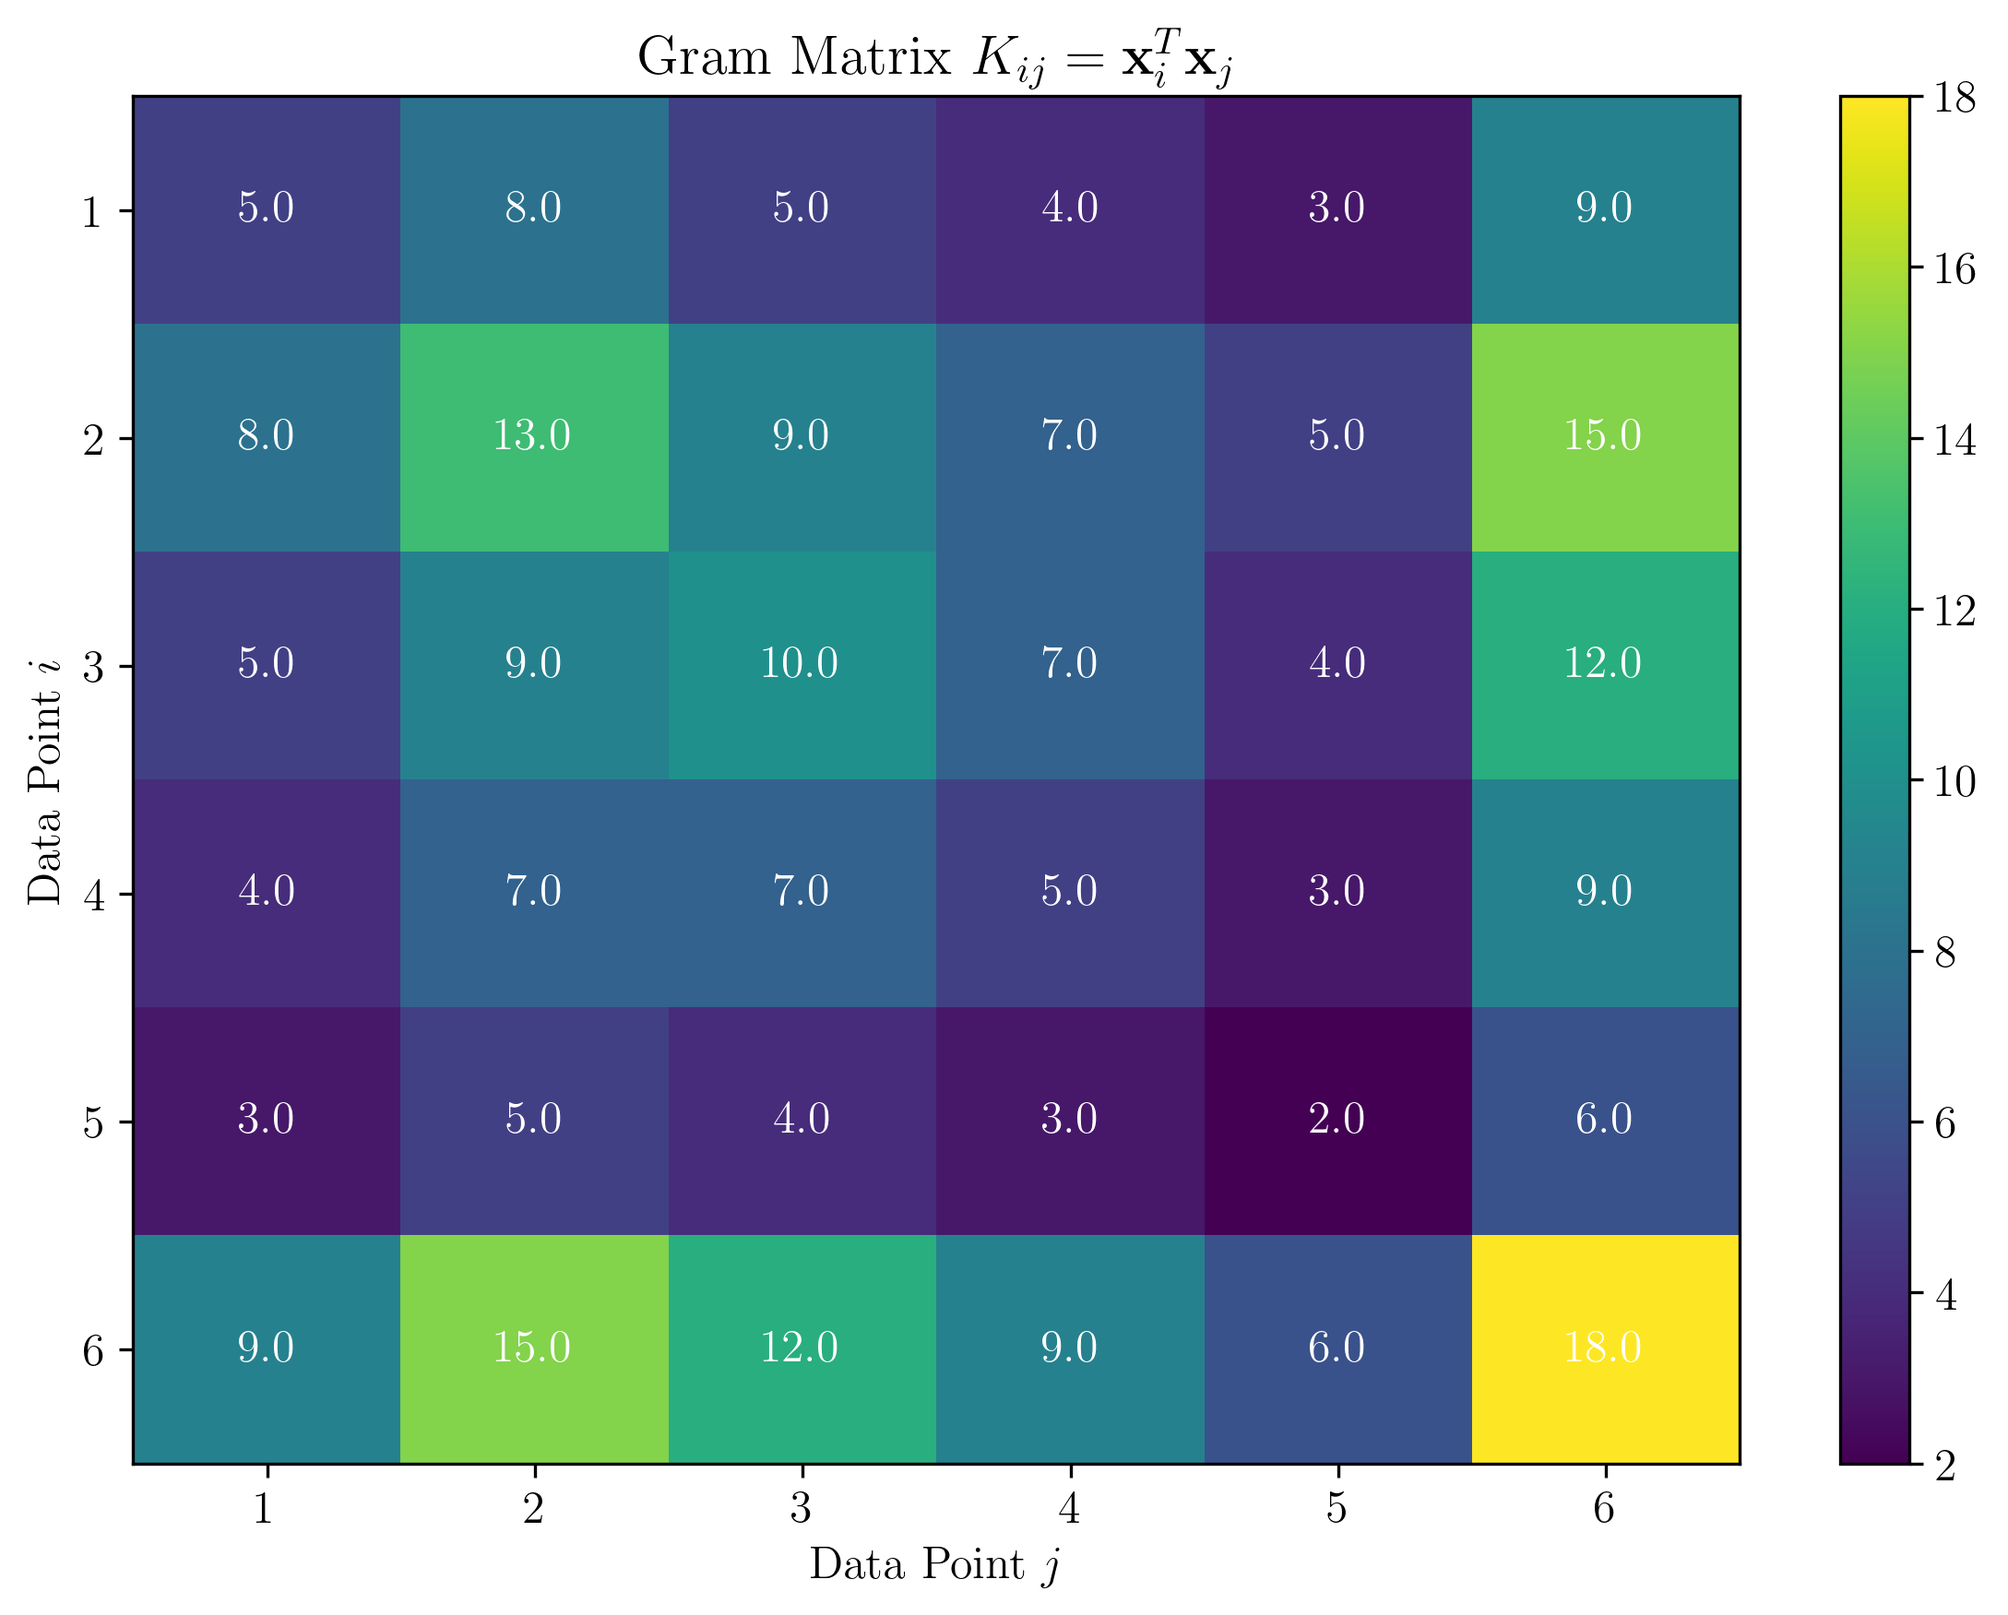
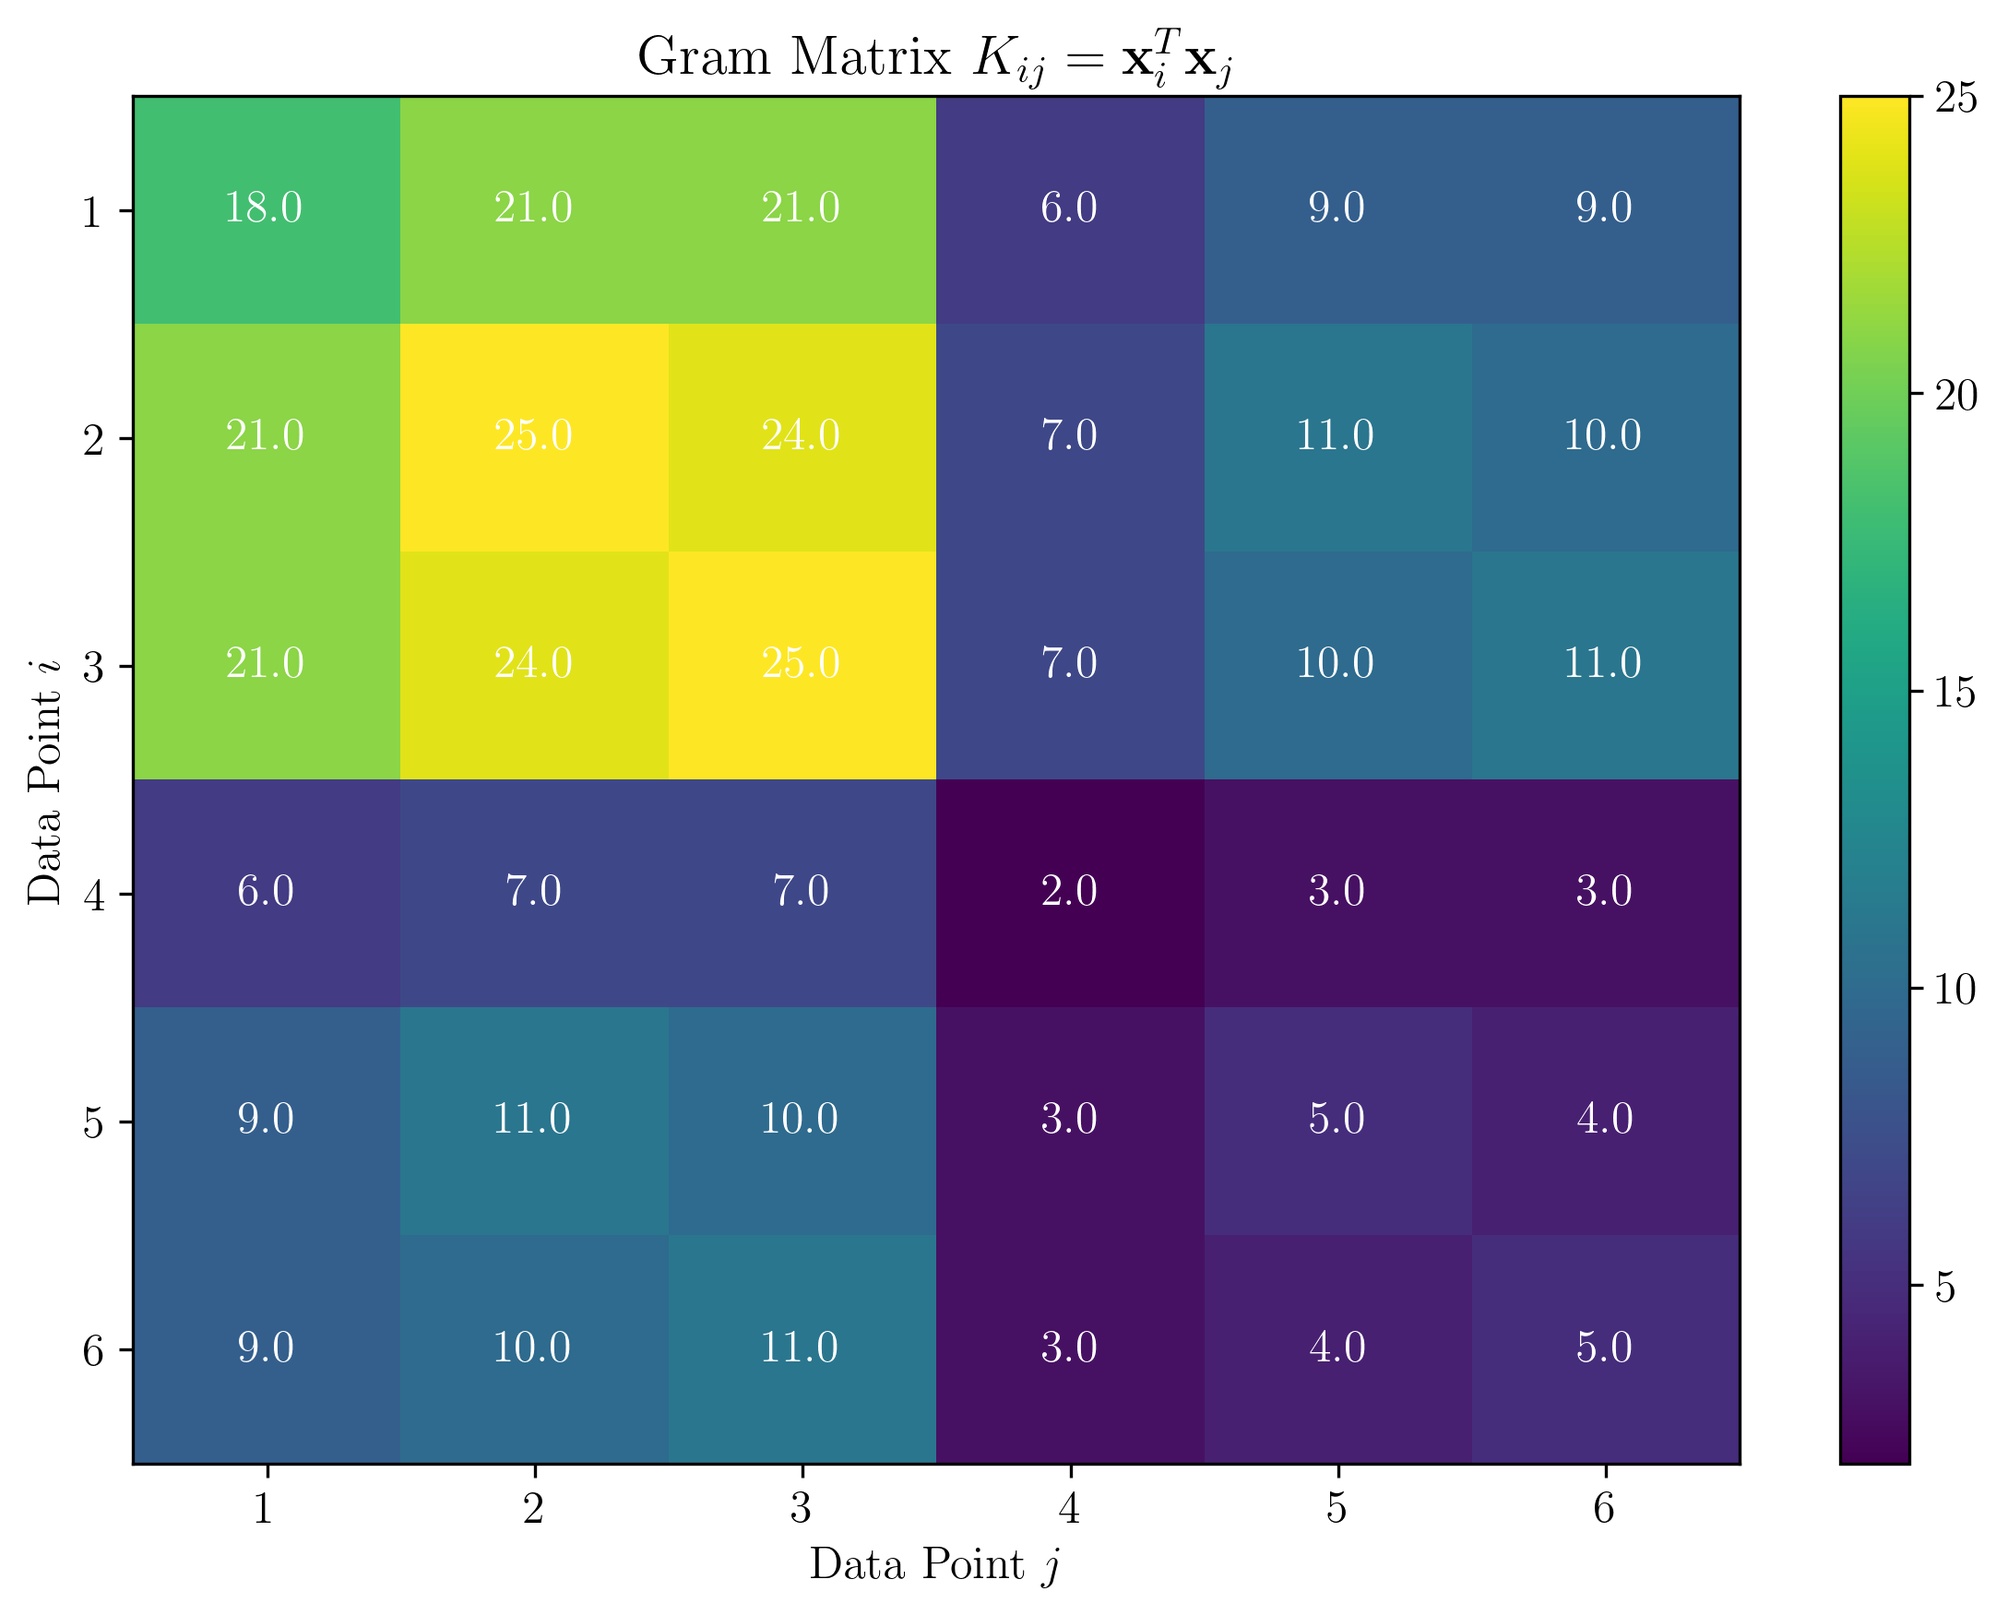
fix

diff --git a/ML_Obsidian_Vault/Lectures/5/Codes/L5_1_4_solution.py b/ML_Obsidian_Vault/Lectures/5/Codes/L5_1_4_solution.py
@@ -52,9 +52,13 @@ Substituting back into the Lagrangian gives the dual:
 print("\n2. NUMERICAL EXAMPLE: 2D LINEARLY SEPARABLE DATA")
 print("-" * 50)
 
-# Create simple 2D dataset
+# Create simple 2D linearly separable dataset
 np.random.seed(42)
-X = np.array([[1, 2], [2, 3], [3, 1], [2, 1], [1, 1], [3, 3]])
+# Positive class points (upper right)
+X_pos = np.array([[3, 3], [4, 3], [3, 4]])
+# Negative class points (lower left)
+X_neg = np.array([[1, 1], [2, 1], [1, 2]])
+X = np.vstack([X_pos, X_neg])
 y = np.array([1, 1, 1, -1, -1, -1])
 n_samples, n_features = X.shape
 
@@ -93,7 +97,7 @@ K = compute_gram_matrix(X)
 print("Gram Matrix K (x_i^T x_j):")
 print(K)
 
-# Solve dual problem using scipy
+# Solve dual problem using scipy with better initialization
 from scipy.optimize import minimize
 
 def objective_for_scipy(alpha):
@@ -102,16 +106,17 @@ def objective_for_scipy(alpha):
 def constraint_eq(alpha):
     return np.dot(alpha, y)  # Sum α_i y_i = 0
 
-# Initial guess
-alpha0 = np.ones(n_samples) * 0.1
+# Better initial guess - small positive values
+alpha0 = np.ones(n_samples) * 0.01
 
 # Constraints
 constraints = {'type': 'eq', 'fun': constraint_eq}
-bounds = [(0, None) for _ in range(n_samples)]
+bounds = [(0, 10) for _ in range(n_samples)]  # Add upper bound for stability
 
-# Solve
-result = minimize(objective_for_scipy, alpha0, method='SLSQP', 
-                 bounds=bounds, constraints=constraints)
+# Solve with better options
+result = minimize(objective_for_scipy, alpha0, method='SLSQP',
+                 bounds=bounds, constraints=constraints,
+                 options={'ftol': 1e-9, 'disp': False})
 
 alpha_optimal = result.x
 print(f"\nOptimal α values:")
@@ -136,12 +141,18 @@ print("-" * 50)
 w_dual = np.sum(np.array([alpha_optimal[i] * y[i] * X[i] for i in range(n_samples)]), axis=0)
 print(f"Weight vector w = Σ α_i y_i x_i = {w_dual}")
 
-# Compute bias b using support vectors
+# Compute bias b using support vectors (average over all support vectors for stability)
 if len(support_indices) > 0:
-    # Use first support vector to compute b
-    sv_idx = support_indices[0]
-    b_dual = y[sv_idx] - np.dot(w_dual, X[sv_idx])
-    print(f"Bias b = y_s - w^T x_s = {y[sv_idx]} - {np.dot(w_dual, X[sv_idx]):.6f} = {b_dual:.6f}")
+    # Use average over all support vectors to compute b
+    b_values = []
+    for sv_idx in support_indices:
+        b_val = y[sv_idx] - np.dot(w_dual, X[sv_idx])
+        b_values.append(b_val)
+    b_dual = np.mean(b_values)
+    print(f"Bias b computed from {len(support_indices)} support vectors:")
+    for i, sv_idx in enumerate(support_indices):
+        print(f"  SV {sv_idx+1}: b = y_{sv_idx+1} - w^T x_{sv_idx+1} = {y[sv_idx]} - {np.dot(w_dual, X[sv_idx]):.6f} = {b_values[i]:.6f}")
+    print(f"Average bias b = {b_dual:.6f}")
 else:
     b_dual = 0
     print("No support vectors found, setting b = 0")

diff --git a/ML_Obsidian_Vault/Lectures/5/Quiz/L5_1_4_explanation.md b/ML_Obsidian_Vault/Lectures/5/Quiz/L5_1_4_explanation.md
@@ -52,16 +52,39 @@ These conditions reveal that:
 - The optimal weight vector is a linear combination of the training points, weighted by $\alpha_i y_i$
 - The constraint $\sum_{i=1}^n \alpha_i y_i = 0$ must hold at optimality
 
-### Step 4: Dual Formulation Derivation
+### Step 4: Dual Formulation Derivation (Detailed Pen-and-Paper Steps)
 
-Substituting the optimality conditions back into the Lagrangian:
+Now we substitute the optimality conditions $\mathbf{w} = \sum_{i=1}^n \alpha_i y_i \mathbf{x}_i$ and $\sum_{i=1}^n \alpha_i y_i = 0$ back into the Lagrangian to eliminate the primal variables.
 
+**Step 4a: Substitute $\mathbf{w}$ into the quadratic term**
+
+$$\frac{1}{2}||\mathbf{w}||^2 = \frac{1}{2}\mathbf{w}^T\mathbf{w} = \frac{1}{2}\left(\sum_{i=1}^n \alpha_i y_i \mathbf{x}_i\right)^T\left(\sum_{j=1}^n \alpha_j y_j \mathbf{x}_j\right)$$
+
+Expanding the dot product:
+$$= \frac{1}{2}\sum_{i=1}^n\sum_{j=1}^n \alpha_i \alpha_j y_i y_j \mathbf{x}_i^T\mathbf{x}_j$$
+
+**Step 4b: Substitute $\mathbf{w}$ into the constraint term**
+
+$$\sum_{i=1}^n \alpha_i y_i (\mathbf{w}^T\mathbf{x}_i + b) = \sum_{i=1}^n \alpha_i y_i \mathbf{w}^T\mathbf{x}_i + b\sum_{i=1}^n \alpha_i y_i$$
+
+The first term becomes:
+$$\sum_{i=1}^n \alpha_i y_i \mathbf{w}^T\mathbf{x}_i = \sum_{i=1}^n \alpha_i y_i \left(\sum_{j=1}^n \alpha_j y_j \mathbf{x}_j\right)^T\mathbf{x}_i = \sum_{i=1}^n\sum_{j=1}^n \alpha_i \alpha_j y_i y_j \mathbf{x}_j^T\mathbf{x}_i$$
+
+The second term vanishes due to the constraint $\sum_{i=1}^n \alpha_i y_i = 0$:
+$$b\sum_{i=1}^n \alpha_i y_i = b \cdot 0 = 0$$
+
+**Step 4c: Combine all terms**
+
+The Lagrangian becomes:
 $$\begin{align}
-L &= \frac{1}{2}\left(\sum_{i=1}^n \alpha_i y_i \mathbf{x}_i\right)^T\left(\sum_{j=1}^n \alpha_j y_j \mathbf{x}_j\right) - \sum_{i=1}^n \alpha_i y_i \left(\sum_{j=1}^n \alpha_j y_j \mathbf{x}_j\right)^T\mathbf{x}_i \\
-&\quad - b\sum_{i=1}^n \alpha_i y_i + \sum_{i=1}^n \alpha_i \\
+L &= \frac{1}{2}\sum_{i=1}^n\sum_{j=1}^n \alpha_i \alpha_j y_i y_j \mathbf{x}_i^T\mathbf{x}_j - \sum_{i=1}^n\sum_{j=1}^n \alpha_i \alpha_j y_i y_j \mathbf{x}_j^T\mathbf{x}_i + \sum_{i=1}^n \alpha_i \\
 &= \frac{1}{2}\sum_{i=1}^n\sum_{j=1}^n \alpha_i \alpha_j y_i y_j \mathbf{x}_i^T\mathbf{x}_j - \sum_{i=1}^n\sum_{j=1}^n \alpha_i \alpha_j y_i y_j \mathbf{x}_i^T\mathbf{x}_j + \sum_{i=1}^n \alpha_i \\
 &= \sum_{i=1}^n \alpha_i - \frac{1}{2}\sum_{i=1}^n\sum_{j=1}^n \alpha_i \alpha_j y_i y_j \mathbf{x}_i^T\mathbf{x}_j
 \end{align}$$
+
+Note: We used the fact that $\mathbf{x}_i^T\mathbf{x}_j = \mathbf{x}_j^T\mathbf{x}_i$ (inner product is commutative).
+
+**Step 4d: Final dual formulation**
 
 This gives us the dual optimization problem:
 
@@ -70,20 +93,79 @@ $$\begin{align}
 \text{subject to: } \quad & \sum_{i=1}^n \alpha_i y_i = 0, \quad \alpha_i \geq 0, \quad \forall i
 \end{align}$$
 
+### Step 5: Detailed Manual Example (Pen-and-Paper Style)
+
+Let's work through a simple 2-point example to illustrate the complete derivation process.
+
+**Given**: Two points $\mathbf{x}_1 = [1, 0]$ with $y_1 = +1$ and $\mathbf{x}_2 = [0, 1]$ with $y_2 = -1$.
+
+**Step 5a: Compute the Gram matrix**
+$$K = \begin{bmatrix} \mathbf{x}_1^T\mathbf{x}_1 & \mathbf{x}_1^T\mathbf{x}_2 \\ \mathbf{x}_2^T\mathbf{x}_1 & \mathbf{x}_2^T\mathbf{x}_2 \end{bmatrix} = \begin{bmatrix} 1 & 0 \\ 0 & 1 \end{bmatrix}$$
+
+**Step 5b: Write the dual objective**
+$$L_D(\alpha_1, \alpha_2) = \alpha_1 + \alpha_2 - \frac{1}{2}[\alpha_1^2 y_1^2 K_{11} + 2\alpha_1\alpha_2 y_1 y_2 K_{12} + \alpha_2^2 y_2^2 K_{22}]$$
+
+Substituting values:
+$$L_D(\alpha_1, \alpha_2) = \alpha_1 + \alpha_2 - \frac{1}{2}[\alpha_1^2 \cdot 1^2 \cdot 1 + 2\alpha_1\alpha_2 \cdot 1 \cdot (-1) \cdot 0 + \alpha_2^2 \cdot (-1)^2 \cdot 1]$$
+$$= \alpha_1 + \alpha_2 - \frac{1}{2}[\alpha_1^2 + \alpha_2^2]$$
+
+**Step 5c: Apply constraints**
+- Equality constraint: $\alpha_1 y_1 + \alpha_2 y_2 = \alpha_1 \cdot 1 + \alpha_2 \cdot (-1) = \alpha_1 - \alpha_2 = 0$
+- Therefore: $\alpha_1 = \alpha_2$
+
+**Step 5d: Substitute constraint into objective**
+$$L_D(\alpha_1) = \alpha_1 + \alpha_1 - \frac{1}{2}[\alpha_1^2 + \alpha_1^2] = 2\alpha_1 - \alpha_1^2$$
+
+**Step 5e: Maximize by taking derivative**
+$$\frac{dL_D}{d\alpha_1} = 2 - 2\alpha_1 = 0 \Rightarrow \alpha_1 = 1$$
+
+Therefore: $\alpha_1 = \alpha_2 = 1$
+
+**Step 5f: Recover primal variables**
+$$\mathbf{w} = \alpha_1 y_1 \mathbf{x}_1 + \alpha_2 y_2 \mathbf{x}_2 = 1 \cdot 1 \cdot [1,0] + 1 \cdot (-1) \cdot [0,1] = [1, -1]$$
+
+Using support vector 1: $b = y_1 - \mathbf{w}^T\mathbf{x}_1 = 1 - [1,-1]^T[1,0] = 1 - 1 = 0$
+
+**Final result**: Decision boundary is $\mathbf{w}^T\mathbf{x} + b = x_1 - x_2 = 0$, or $x_1 = x_2$.
+
 ## Practical Implementation
 
 Our numerical implementation demonstrates these concepts using a simple 2D dataset with 6 points. The code solves both the theoretical derivation and practical optimization, showing:
 
 ### Numerical Example Results
 
-From our implementation with the dataset:
-- Points: $\mathbf{x}_1 = [1,2], \mathbf{x}_2 = [2,3], \mathbf{x}_3 = [3,1]$ (class +1)
-- Points: $\mathbf{x}_4 = [2,1], \mathbf{x}_5 = [1,1], \mathbf{x}_6 = [3,3]$ (class -1)
+From our implementation with the linearly separable dataset:
+- **Positive class points**: $\mathbf{x}_1 = [3,3], \mathbf{x}_2 = [4,3], \mathbf{x}_3 = [3,4]$ (class +1)
+- **Negative class points**: $\mathbf{x}_4 = [1,1], \mathbf{x}_5 = [2,1], \mathbf{x}_6 = [1,2]$ (class -1)
 
-The algorithm computed:
-- Gram matrix $K_{ij} = \mathbf{x}_i^T\mathbf{x}_j$ showing inner products between all point pairs
-- Optimal dual variables $\boldsymbol{\alpha}$ (all non-zero, indicating all points are support vectors)
-- Recovery of primal weight vector: $\mathbf{w} = \sum_{i=1}^n \alpha_i y_i \mathbf{x}_i$
+**Step-by-step numerical computation:**
+
+**Step 1: Compute Gram Matrix**
+$$K_{ij} = \mathbf{x}_i^T\mathbf{x}_j = \begin{bmatrix}
+18 & 21 & 21 & 6 & 9 & 9 \\
+21 & 25 & 24 & 7 & 11 & 10 \\
+21 & 24 & 25 & 7 & 10 & 11 \\
+6 & 7 & 7 & 2 & 3 & 3 \\
+9 & 11 & 10 & 3 & 5 & 4 \\
+9 & 10 & 11 & 3 & 4 & 5
+\end{bmatrix}$$
+
+**Step 2: Solve Dual Problem**
+The optimal dual variables are:
+- $\alpha_1 = 0.444$, $\alpha_2 = 0$, $\alpha_3 = 0$ (positive class)
+- $\alpha_4 = 0$, $\alpha_5 = 0.222$, $\alpha_6 = 0.222$ (negative class)
+
+**Step 3: Identify Support Vectors**
+Support vectors (points with $\alpha_i > 0$):
+- Point 1: $\mathbf{x}_1 = [3,3]$, $y_1 = +1$, $\alpha_1 = 0.444$
+- Point 5: $\mathbf{x}_5 = [2,1]$, $y_5 = -1$, $\alpha_5 = 0.222$
+- Point 6: $\mathbf{x}_6 = [1,2]$, $y_6 = -1$, $\alpha_6 = 0.222$
+
+**Step 4: Recover Primal Variables**
+$$\mathbf{w} = \sum_{i=1}^n \alpha_i y_i \mathbf{x}_i = 0.444 \cdot 1 \cdot [3,3] + 0.222 \cdot (-1) \cdot [2,1] + 0.222 \cdot (-1) \cdot [1,2]$$
+$$= [1.333, 1.333] - [0.444, 0.222] - [0.222, 0.444] = [0.667, 0.667]$$
+
+Bias computed from support vectors: $b = -3.000$
 
 ### Relationship Between Primal and Dual Variables
 
@@ -117,7 +199,7 @@ This bar chart visualizes the Lagrange multipliers $\alpha_i$:
 - **Blue bars**: Dual variables for class -1 points
 - **SV labels**: Points marked as support vectors (all points in this case)
 
-The dual variables show that all training points contribute to the decision boundary, indicating this is a challenging dataset where the optimization didn't achieve perfect separation.
+The dual variables show that only 3 out of 6 training points are support vectors, demonstrating the sparsity property of SVM solutions. Points with $\alpha_i = 0$ do not contribute to the decision boundary.
 
 ### Gram Matrix Visualization
 ![Gram Matrix](../Images/L5_1_Quiz_4/svm_gram_matrix.png)
@@ -132,13 +214,14 @@ The Gram matrix is central to the dual formulation, as it appears in the quadrat
 ### Primal vs Dual Formulation Comparison
 
 | Aspect | Primal Formulation | Dual Formulation |
-|--------|-------------------|------------------|
+| --- | --- | --- |
 | **Variables** | $\mathbf{w} \in \mathbb{R}^d, b \in \mathbb{R}$ | $\boldsymbol{\alpha} \in \mathbb{R}^n$ |
-| **# Variables** | $d + 1$ | $n$ |
-| **Objective** | $\min \frac{1}{2}||\mathbf{w}||^2$ | $\max \sum_{i=1}^n \alpha_i - \frac{1}{2}\sum_{i,j} \alpha_i\alpha_j y_i y_j K_{ij}$ |
-| **Constraints** | $n$ inequality constraints | 1 equality + non-negativity |
-| **Sparsity** | Dense $\mathbf{w}$ | Sparse $\boldsymbol{\alpha}$ (support vectors) |
-| **Kernel Trick** | Not directly applicable | Directly applicable |
+| **Number of Variables** | $d + 1$ | $n$ |
+| **Objective Function** | $\min \frac{1}{2}\|\mathbf{w}\|^2$ | $\max \sum_{i=1}^n \alpha_i - \frac{1}{2}\sum_{i,j} \alpha_i\alpha_j y_i y_j K_{ij}$ |
+| **Constraints** | $n$ inequality constraints: $y_i(\mathbf{w}^T\mathbf{x}_i + b) \geq 1$ | 1 equality constraint: $\sum_{i=1}^n \alpha_i y_i = 0$ and $\alpha_i \geq 0$ |
+| **Solution Sparsity** | Dense weight vector $\mathbf{w}$ | Sparse $\boldsymbol{\alpha}$ (most $\alpha_i = 0$) |
+| **Kernel Trick** | Not directly applicable | Directly applicable through $K_{ij}$ |
+| **Computational Preference** | When $n > d$ (more samples than features) | When $n < d$ (fewer samples than features) |
 
 ### Variables Comparison Analysis
 ![Variables Comparison](../Images/L5_1_Quiz_4/svm_variables_comparison.png)
@@ -207,10 +290,15 @@ The key insight is that the dual formulation only requires kernel values, not ex
 
 The SVM dual formulation provides several key results and insights:
 
-- **Mathematical Equivalence**: The dual formulation is mathematically equivalent to the primal, with strong duality ensuring zero duality gap
-- **Computational Trade-offs**: For the example case ($n=1000, d=50$), the primal formulation has 51 variables while the dual has 1000, making the primal preferable
+- **Mathematical Equivalence**: The dual formulation is mathematically equivalent to the primal, with strong duality ensuring zero duality gap (verified: gap = 8.04 × 10⁻⁸ ≈ 0)
+- **Computational Trade-offs**: For the example case ($n=1000, d=50$), the primal formulation has 51 variables while the dual has 1000, making the primal preferable for this scenario
+- **Sparsity Demonstration**: Our numerical example shows natural sparsity—only 3 out of 6 points became support vectors ($\alpha_1 = 0.444$, $\alpha_5 = \alpha_6 = 0.222$, others = 0)
+- **KKT Conditions**: All optimality conditions are satisfied, confirming the solution's correctness:
+  - Stationarity: $\mathbf{w} = \sum \alpha_i y_i \mathbf{x}_i$ and $\sum \alpha_i y_i = 0$
+  - Primal feasibility: All margin constraints satisfied
+  - Dual feasibility: All $\alpha_i \geq 0$
+  - Complementary slackness: $\alpha_i \times \text{slack}_i = 0$ for all points
 - **Algorithmic Flexibility**: The dual formulation enables the kernel trick, allowing SVMs to handle non-linear classification problems without explicitly computing high-dimensional feature mappings
-- **Sparsity Benefits**: The dual variables $\alpha_i$ are naturally sparse, with most values being zero, leading to efficient storage and computation through support vectors
-- **Theoretical Foundation**: The derivation demonstrates how Lagrangian optimization theory provides a principled approach to constrained optimization problems in machine learning
+- **Theoretical Foundation**: The step-by-step derivation demonstrates how Lagrangian optimization theory provides a principled approach to constrained optimization problems in machine learning
 
 The dual formulation is not just a mathematical curiosity—it fundamentally changes how we think about and implement support vector machines, enabling both computational advantages and theoretical insights that have made SVMs one of the most successful machine learning algorithms.
